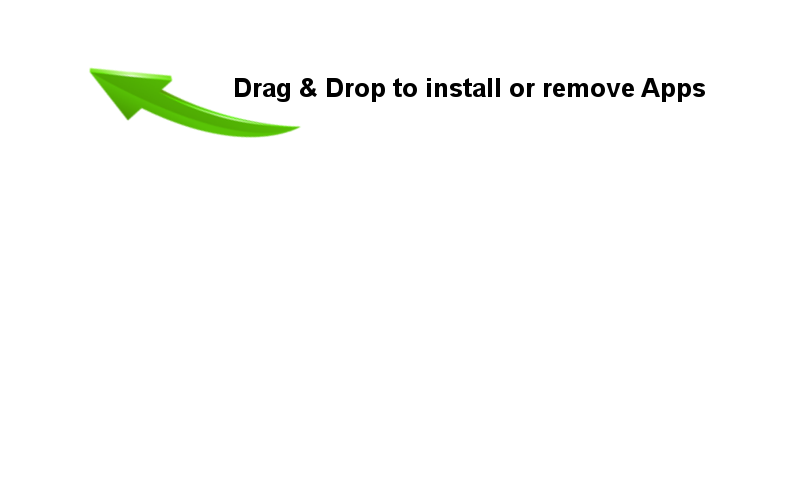
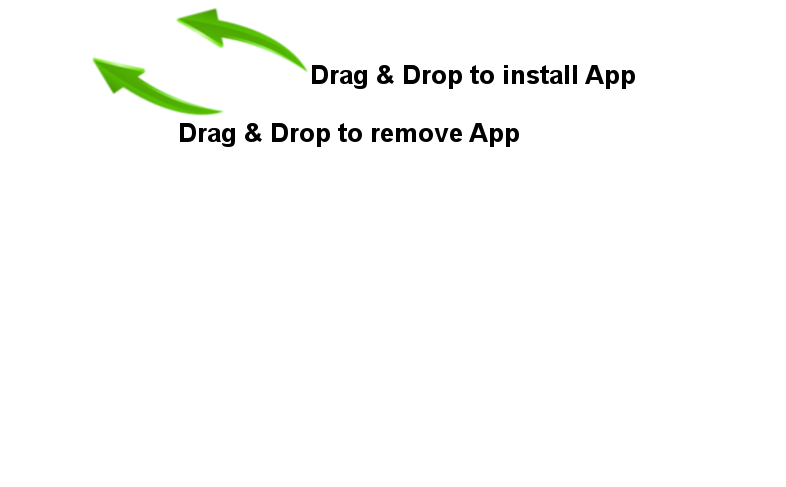
remove apps when droped in installed row

Changed region(s): [[0.2137, 0.0, 0.916, 0.2156], [0.0916, 0.1232, 0.6718, 0.308]]

diff --git a/hotkeyEVE/Apps/Model/AppsManager.m b/hotkeyEVE/Apps/Model/AppsManager.m
@@ -36,6 +36,8 @@
   for (NSString *moduleID in moduleIDs) {
     [self performSelectorInBackground:@selector(addAppWithModuleID:) withObject:moduleID];
   }
+  
+  _appCount = [moduleIDs count];
 }
 
 - (void) addAppWithModuleID :(NSString*) aModuleID {
@@ -47,7 +49,6 @@
       [_guiElementTable insertGUIElementsFromAppModule:app];
       
       [_userNotifications displayAppInstalledNotification:[[app moduleMetaData] valueForKey:kAppNameKey]];
-      [self postTableRefreshNotification];
     }
     @catch (NSException *exception) {
       DDLogError(@"AppsManager -> addAppWithModuleID :: exception occured => %@", [exception reason]);
@@ -62,27 +63,32 @@
       [_userNotifications displayRegisterEVEWithCallbackNotification:@"Register EVE, to install more Apps!" :@"You've reached the maximum number of installed Apps"];
     }
   }
+  
+  [self postTableRefreshNotificationIfNoMoreApps];
 }
 
 - (void) removeAppsFromArray :(NSArray*) moduleIDs {
   for (NSString *moduleID in moduleIDs) {
     [self performSelectorInBackground:@selector(removeAppWithModuleID:) withObject:moduleID];
   }
+  
+    _appCount = [moduleIDs count];
 }
 
 - (void) removeAppWithModuleID :(NSString*) aModuleID {
-    @synchronized(self) {
-      NSDictionary *theModuleRow = [_appModuleTable getModuleEntityWithExternalID:aModuleID];
-      if ([theModuleRow count] > 0) {
-        NSInteger theID = [[theModuleRow valueForKey:ID_COL] integerValue];
-        [_guiElementTable removeGUIElementsWithID:theID];
-        [_appModuleTable  removeAppModuleWithID:theID];
-        [_userNotifications displayAppRemovedNotification:[theModuleRow valueForKey:kAppNameKey]];
-        [self postTableRefreshNotification];
-      } else {
-          DDLogError(@"AppsManager -> removeAppWithModuleID :: app with module id %@ not installed",aModuleID);
-      }
+  @synchronized(self) {
+    NSDictionary *theModuleRow = [_appModuleTable getModuleEntityWithExternalID:aModuleID];
+    if ([theModuleRow count] > 0) {
+      NSInteger theID = [[theModuleRow valueForKey:ID_COL] integerValue];
+      [_guiElementTable removeGUIElementsWithID:theID];
+      [_appModuleTable  removeAppModuleWithID:theID];
+      [_userNotifications displayAppRemovedNotification:[theModuleRow valueForKey:kAppNameKey]];
+    } else {
+        DDLogError(@"AppsManager -> removeAppWithModuleID :: app with module id %@ not installed",aModuleID);
     }
+  }
+  
+  [self postTableRefreshNotificationIfNoMoreApps];
 }
 
 - (id) loadTableSourceData {
@@ -90,8 +96,9 @@
   return nil;
 }
 
-- (void) postTableRefreshNotification {
-  [[NSNotificationCenter defaultCenter] postNotificationName:kEVENotificationsReloadAppsTable object:nil];
+- (void) postTableRefreshNotificationIfNoMoreApps {
+  if(--_appCount == 0) // no More Apps Refresh Table
+    [[NSNotificationCenter defaultCenter] postNotificationName:kEVENotificationsReloadAppsTable object:nil];
 }
 
 - (BOOL) grantInstall {

diff --git a/hotkeyEVE/Apps/GUI/AppsTableNavigationViewController.m b/hotkeyEVE/Apps/GUI/AppsTableNavigationViewController.m
@@ -88,14 +88,16 @@ NSString * const KNavigationColumn = @"NavigationColumn";
 - (BOOL)tableView:(NSTableView*)tv acceptDrop:(id <NSDraggingInfo>)info row:(NSInteger)row dropOperation:(NSTableViewDropOperation)op {
   
   NSPasteboard *pboard = [info draggingPasteboard];
-  NSString *moduleID = [pboard stringForType:NSPasteboardTypeString];
-  NSArray *moduleIDArray = [moduleID componentsSeparatedByString:@"\n"];
+  NSString *moduleIDsString = [pboard stringForType:NSPasteboardTypeString];
+  NSArray *moduleIDArray = [moduleIDsString componentsSeparatedByString:@"\n"];
   
   if ([[_dataSource objectAtIndex:row] valueForKey:KNavigationColumn] == kInstalledRowHeader) {
       [_appsManager addAppsFromArray:moduleIDArray];
   } else if ([[_dataSource objectAtIndex:row] valueForKey:KNavigationColumn] == kNotInstalledRowHeader) {
       [_appsManager removeAppsFromArray:moduleIDArray];
   }
+  
+  [[NSNotificationCenter defaultCenter] postNotificationName:kEVENotificationsRemoveDropedLinesFromTable object:nil];
   
 	return YES;
 }

diff --git a/hotkeyEVE/Apps/GUI/AppsTableViewController.m b/hotkeyEVE/Apps/GUI/AppsTableViewController.m
@@ -63,6 +63,8 @@ NSString * const kAppsTableViewControllerNibName = @"AppsTableViewController";
 }
 
 - (void) registerObserver {
+  [[NSNotificationCenter defaultCenter] addObserver:self selector:@selector(removeRowsFromTable) name:kEVENotificationsRemoveDropedLinesFromTable object:nil];
+  
   [[NSNotificationCenter defaultCenter] addObserver:self selector:@selector(loadTableData) name:kEVENotificationsReloadAppsTable object:nil];
 }
 
@@ -146,11 +148,17 @@ NSString * const kAppsTableViewControllerNibName = @"AppsTableViewController";
     }
     
     [pboard setString:[pasteBoardStringArray componentsJoinedByString:@"\n"] forType:NSPasteboardTypeString];
-
+    
     return YES;
   } else {
      return NO;
   }
+}
+
+- (void) removeRowsFromTable {
+  [_tableView beginUpdates];
+  [_tableView removeRowsAtIndexes:[_tableView selectedRowIndexes] withAnimation:NSTableViewAnimationEffectFade];
+  [_tableView endUpdates];
 }
 
 @end

diff --git a/hotkeyEVEUnitTests/AppsGUITests/AppsWindowControllerTests.m b/hotkeyEVEUnitTests/AppsGUITests/AppsWindowControllerTests.m
@@ -43,10 +43,10 @@
     id mock = [OCMockObject observerMock];
     
     [[NSNotificationCenter defaultCenter] addMockObserver:mock
-                                                     name:kEVENotificationsReloadAppsTable
+                                                     name:kEVENotificationsRemoveDropedLinesFromTable
                                                    object:nil];
     
-    [[mock expect] notificationWithName:kEVENotificationsReloadAppsTable object:[OCMArg any]];
+    [[mock expect] notificationWithName:kEVENotificationsRemoveDropedLinesFromTable object:[OCMArg any]];
     
     [_appsWindowController windowDidBecomeKey:nil];
     

diff --git a/hotkeyEVEUnitTests/AppsManagerTests.m b/hotkeyEVEUnitTests/AppsManagerTests.m
@@ -277,10 +277,10 @@
   id mock = [OCMockObject observerMock];
 
   [[NSNotificationCenter defaultCenter] addMockObserver:mock
-                                                   name:kEVENotificationsReloadAppsTable
+                                                   name:kEVENotificationsRemoveDropedLinesFromTable
                                                  object:nil];
   
-  [[mock expect] notificationWithName:kEVENotificationsReloadAppsTable object:[OCMArg any]];
+  [[mock expect] notificationWithName:kEVENotificationsRemoveDropedLinesFromTable object:[OCMArg any]];
   
   [_appsManager postTableRefreshNotification];
   

diff --git a/hotkeyEVE/GUI/GUINotifications/GUINotifications.m b/hotkeyEVE/GUI/GUINotifications/GUINotifications.m
@@ -18,4 +18,5 @@ NSString * const RefreshShortcutBrowserApplicationTable = @"RefreshShortcutBrows
 NSString * const ShortcutTableSearchUpdate = @"ShortcutTableSearchUpdate";
 NSString * const SelectActiveApplication = @"SelectCurrentRunningApplication";
 NSString * const SelectNotificationDisabledShortcutRow = @"SelectNotificationDisabledShortcutRow";
+NSString * const kEVENotificationsRemoveDropedLinesFromTable = @"RemoveDropedLinesFromTable";
 NSString * const kEVENotificationsReloadAppsTable = @"ReloadAppsTable";

diff --git a/hotkeyEVE/GUI/GUINotifications/GUINotifications.h b/hotkeyEVE/GUI/GUINotifications/GUINotifications.h
@@ -18,4 +18,5 @@ extern NSString * const ApplicationIndexingFinished;
 extern NSString * const ShortcutTableSearchUpdate;
 extern NSString * const SelectActiveApplication;
 extern NSString * const SelectNotificationDisabledShortcutRow;
+extern NSString * const kEVENotificationsRemoveDropedLinesFromTable;
 extern NSString * const kEVENotificationsReloadAppsTable;

diff --git a/hotkeyEVE/Apps/Model/AppsManager.h b/hotkeyEVE/Apps/Model/AppsManager.h
@@ -9,7 +9,9 @@
 #import <Foundation/Foundation.h>
 #import "IAppsManager.h"
 
-@interface AppsManager : NSObject <IAppsManager>
+@interface AppsManager : NSObject <IAppsManager> {
+  NSInteger _appCount;
+}
 
 - (BOOL) grantInstall;
 

diff --git a/hotkeyEVE/Apps/Model/IAppsManager.h b/hotkeyEVE/Apps/Model/IAppsManager.h
@@ -28,6 +28,5 @@
 - (void) removeAppWithModuleID :(NSString*) aModuleID;
 
 - (id) loadTableSourceData;
-- (void) postTableRefreshNotification;
 
 @end
